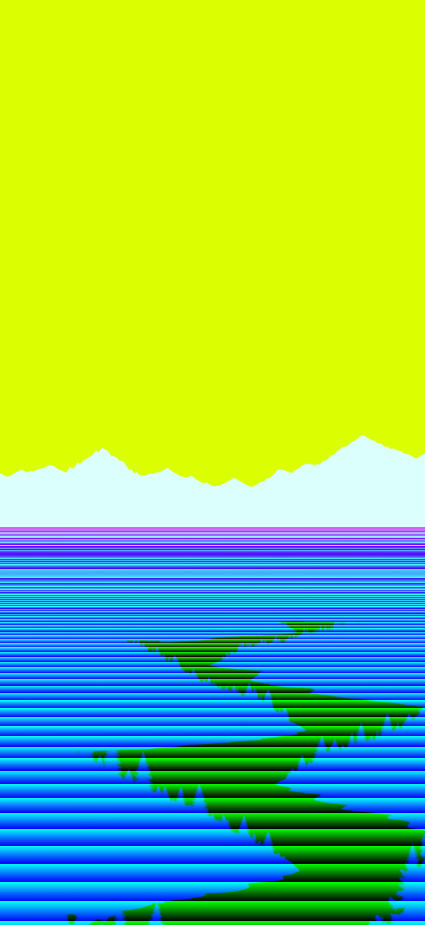
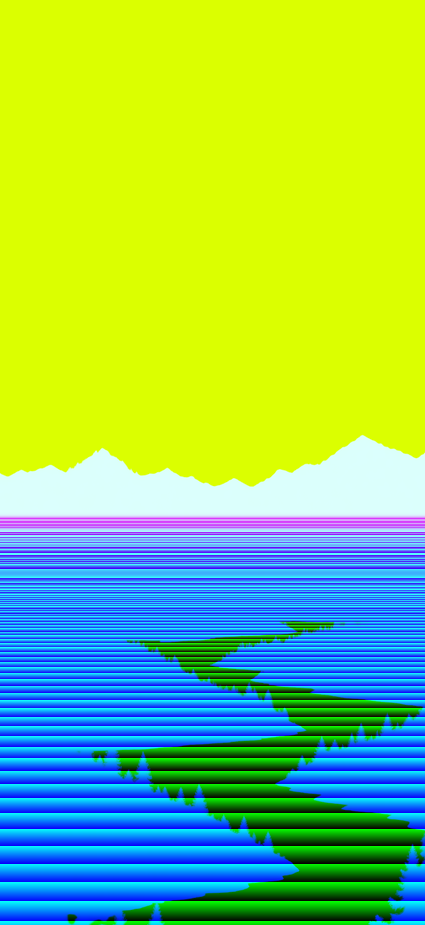
[quick-ui] Smooth the camera-depth surface to remove horizontal terrain lighting seams

Changed region(s): [[0.0, 0.5449, 1.0, 0.6054]]

diff --git a/scripts/prepare-scene-depth.py b/scripts/prepare-scene-depth.py
@@ -17,7 +17,10 @@ w,h=c['mapWidth'],c['mapHeight']
 alpha=np.asarray(Image.open(folder/'terrain.webp').getchannel('A').resize((w,h),Image.Resampling.LANCZOS))
 elevation=(c['horizon']-(np.arange(h)+.5)/h)/c['altitudeSpan']*np.pi/2
 depression=np.maximum(.001,-elevation)
-radial=np.minimum(110.,(c['cameraHeight']-.96)/np.tan(depression))
+ground=(c['cameraHeight']-.96)/np.tan(depression)
+# Positive smooth minimum: a hard shell/plane minimum creates a full-width
+# normal discontinuity that becomes visible under material lighting.
+radial=(110.**-6+ground**-6)**(-1/6)
 q=np.rint(np.clip(radial/c['worldExtent'],0,1)*65535).astype(np.uint16)
 depth=np.zeros((h,w,4),dtype=np.uint8)
 depth[:,:,0]=(q>>8)[:,None];depth[:,:,1]=(q&255)[:,None]

diff --git a/docs/photographic-landscape.md b/docs/photographic-landscape.md
@@ -22,6 +22,8 @@ bump from image luminance. It writes opaque world-space `terrain-normal.png`.
 This is an explicit approximate camera-facing depth surface, not photogrammetry
 or a complete 3D scene recovered from a single image. No hidden terrain or accurate
 tree geometry is inferred. The source artwork also contains baked soft shading.
+The far shell and raised near surface use a positive smooth-minimum depth join,
+so the world normals do not jump along a horizontal shell/plane boundary.
 
 ## Deferred terrain material
 

diff --git a/docs/ray-traced-water.md b/docs/ray-traced-water.md
@@ -1,5 +1,8 @@
 # One-bounce reflections, volumetric scattering and dispersive wave packets
 
+The later material and smooth depth-surface revision is documented in
+[`photographic-landscape.md`](photographic-landscape.md).
+
 This extends the existing renderer; it is not hardware ray tracing or full-scene
 path tracing. WebGL2 runs GLSL ray queries against a controlled 2.5D proxy of the
 existing illustration. No new engine, context, theme, orbit or React UI is added.
